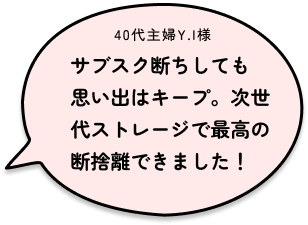
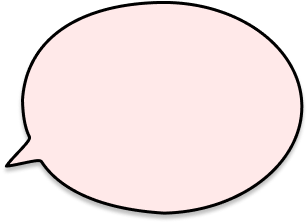
a

diff --git a/src/app/components/pages/home/sectionFeatures.tsx b/src/app/components/pages/home/sectionFeatures.tsx
@@ -1,4 +1,4 @@
-import { ReactNode } from "react";
+import { ReactNode, useEffect } from "react";
 import SectionWrap from "../common/sectionWrap";
 
 
@@ -15,9 +15,29 @@ function Feature({
     title,
     text,
     note
-    }: FeaturePropsType) {
+}: FeaturePropsType) {
+    useEffect(() => {
+        setTimeout(() => {
+            const articleFeatures = document.querySelectorAll('.article-feature');
+            articleFeatures.forEach((articleFeature) => {
+                const textFoldingElement = articleFeature.querySelector('.text--folding') as HTMLElement | null;
+
+                if (textFoldingElement) {
+                    const charTotalValue = getComputedStyle(textFoldingElement).getPropertyValue('--char-total');
+                    const lastCharElement = articleFeature.querySelector('.last-char') as HTMLElement | null;
+
+                    if (lastCharElement) {
+                        lastCharElement.style.setProperty('--char-total', charTotalValue);
+                    }
+                }
+            });
+        });
+
+    }, []);
+
+
     return (
-        <div className="relative border-2 border-[#FDD300] [box-shadow:0px_4px_30px_0px_rgba(0,_0,_0,_0.10)] rounded-[20px] px-4 md:px-5 pt-4 md:pt-5 pb-5 md:pb-7">
+        <div className="article-feature relative border-2 border-[#FDD300] [box-shadow:0px_4px_30px_0px_rgba(0,_0,_0,_0.10)] rounded-[20px] px-4 md:px-5 pt-4 md:pt-5 pb-5 md:pb-7">
             <div className="absolute md:w-[60px] w-[50px] h-[55px] md:h-[66px] bg-[url('/images/feature-label.png')] bg-cover top-0 left-4 flex flex-col items-center justify-center pb-2">
                 <p className="font-medium text-[8px] leading-none">FEATURE</p>
                 <p className="font-black md:text-[38px] text-[20px] leading-none">{id}</p>
@@ -27,7 +47,13 @@ function Feature({
             </figure>
             <h5 className="font-bold md:text-[20px] text-[16px] md:mt-6 mt-4 min-h-[60px] flex items-center">{title}</h5>
             <p className="font-medium md:text-[18px] text-[14px] mt-2">{text}</p>
-            <p className="bg-[#FFF0A6] rounded-[10px] border border-dashed min-h-[78px] border-[#FDD300] font-medium md:text-[18px] text-[14px] mt-3 p-3">{note}</p>
+            <p data-scroll="out" className="bg-[#FFF0A6] rounded-[10px] border border-dashed min-h-[78px] border-[#FDD300] font-medium md:text-[18px] text-[14px] mt-3 p-3">
+                <span className="text--plitting">
+                    <span className="text--folding" data-splitting="">{note}
+                    </span>
+                </span>
+                <span className="last-char char">🎵</span>
+            </p>
         </div>
     );
 }
@@ -42,21 +68,21 @@ export default function SectionFeatures() {
                         image="/images/img-feature-01.png"
                         title="家族で使える！100年買い切り型で人生で必要なストレージを確保！"
                         text="自分、家族の大切な思い出をまるごと全部残せます。"
-                        note="ずっと使ってサブスク不要の人生を歩もう🎵"
+                        note="ずっと使ってサブスク不要の人生を歩もう"
                     />
                     <Feature
                         id="2"
                         image="/images/img-feature-02.png"
                         title="必要な容量だけ買えて、追加もできる！"
                         text="容量が足りなくなったら簡単に追加購入できます。"
-                        note="デジタルライフの生きづらさをスッキリ解決🎵"
+                        note="デジタルライフの生きづらさをスッキリ解決"
                     />
                     <Feature
                         id="3"
                         image="/images/img-feature-03.png"
                         title="大切なデータの保管場所としての機能を完備！"
                         text="大切なデータを削除する必要はありません。"
-                        note="心ゆくまでまるごと保管🎵
+                        note="心ゆくまでまるごと保管
                         "
                     />
                     <Feature
@@ -64,7 +90,7 @@ export default function SectionFeatures() {
                         image="/images/img-feature-04.png"
                         title="世界のどこでも利用可能！"
                         text="アクセス拒否されないから、いつでもどこでもデータ保存。"
-                        note="旅の節目で安心バックアップ🎵
+                        note="旅の節目で安心バックアップ
                         "
                     />
                     <Feature
@@ -72,10 +98,10 @@ export default function SectionFeatures() {
                         image="/images/img-feature-05.png"
                         title="最短即日利用可能！"
                         text="申し込み後は購入〜初期設定完了まで最短即日で対応。"
-                        note="すぐに使って容量問題から解放されてください🎵"
+                        note="すぐに使って容量問題から解放されてください"
                     />
                 </div>
             </div>
         </SectionWrap>
     );
-  }
+}

diff --git a/src/app/components/pages/home/sectionError.tsx b/src/app/components/pages/home/sectionError.tsx
@@ -97,10 +97,12 @@ export default function SectionError() {
                     <div className="relative">
                         <div className="w-full max-w-[630px] mx-auto md:border-[10px] border-[5px] border-[#FDD300] md:rounded-[40px] rounded-[28px] [box-shadow:0px_4px_30px_rgba(0,_0,_0,_0.10)] bg-[url('/images/bg-magic.jpg')] bg-cover bg-center py-7 md:py-9 px-5 md:px-6">
                             <p className="text-center font-black text-[18px] md:text-[28px] tracking-widest [text-shadow:2px_2px_0px_#FDD300] bg-[url('/images/border-magic.png')] bg-no-repeat bg-bottom pb-3">そんな希望を魔法のように叶えるのが</p>
-                            <p className="md:text-[24px] text-[14px] font-bold text-center tracking-widest leading-loose my-3 md:my-4">
-                                生きづらさの種の一つとして <br />
+                            <p data-scroll="out" className="md:text-[24px] text-[14px] font-bold text-center tracking-widest leading-loose my-3 md:my-4">
+                                <span className="text--plitting">
+                                <span className="text--fading" data-splitting="">生きづらさの種の一つとして <br />
                                 存在感を増す「容量」がもたらす <br />
-                                問題をまるごと解消に導く
+                                問題をまるごと解消に導く</span>
+                                </span>
                             </p>
                             <p className="flex justify-center mt-6"><img src="/images/next-generation-storage-text.png" alt="" /></p>
                         </div>

diff --git a/src/app/components/pages/home/sectionVoice.tsx b/src/app/components/pages/home/sectionVoice.tsx
@@ -11,8 +11,17 @@ export default function SectionVoice() {
                 </div>
                 <div className="w-full max-w-[1320px] mx-auto md:mt-[70px] mt-16">
                     <div className="relative w-full max-w-[800px] mx-auto">
-                        <div className="absolute top-[-30px] md:left-[calc(50%-25px)] left-1/2 max-md:w-[45%] animate-[bounce_1s_0.3s_ease_infinite_alternate]">
+                        <div className="absolute top-[-30px] md:left-[calc(50%-25px)] left-1/2 max-md:w-[40vw] animate-[bounce_1s_0.3s_ease_infinite_alternate]">
                             <img src="/images/bubble-voice.png" alt="" />
+                            <div data-scroll="out" className="absolute inset-0 flex flex-col items-center justify-center pl-[9vw] pr-[5vw] pb-[2vw] md:pl-16 md:pr-10 md:pb-6">
+                                <p className="text-center md:text-[14px] text-[2.3vw] font-medium mb-1">40代主婦Y.I様</p>
+                                <p className="md:text-[20px] text-[2.5vw] font-bold">
+                                <span className="text--plitting">
+                                <span className="text--fading" data-splitting="">サブスク断ちしても <br />
+                                                                思い出はキープ。次世代ストレージで最高の断捨離できました！</span>
+                                </span>
+                                </p>
+                            </div>
                         </div>
                         <figure>
                             <img src="/images/user-image.png" alt="" />

diff --git a/src/app/components/pages/home/sectionPopular.tsx b/src/app/components/pages/home/sectionPopular.tsx
@@ -55,7 +55,7 @@ export default function SectionPopular() {
                                 <p className="text-center font-black md:text-[24px] text-[14px]">本当に必要かな？</p>
                             </div>
                             <figure className="absolute right-[calc(50%+85px)] bottom-[88px]">
-                                <img src="/images/deco-cloud-01.png" alt="" />
+                                <img className="animate-[bounce_1s_0.5s_ease_infinite_alternate]" src="/images/deco-cloud-01.png" alt="" />
                             </figure>
                         </div>
                         <div className="w-full md:w-1/2 bg-[url('/images/popular-bg-02.png')] bg-cover bg-center md:pt-16 md:pb-[75px] pt-10 pb-14 relative">
@@ -89,8 +89,8 @@ export default function SectionPopular() {
                                 </div>
                                 <p className="text-center font-black md:text-[24px] text-[14px]">これだけあれば十分だね！</p>
                             </div>
-                            <figure className="absolute left-[calc(50%+75px)] bottom-[90px]">
-                                <img src="/images/deco-cloud-02.png" alt="" />
+                            <figure className="absolute left-[calc(50%+75px)] bottom-[100px]">
+                                <img className="animate-[bounce_1s_0.2s_ease_infinite_alternate]" src="/images/deco-cloud-02.png" alt="" />
                             </figure>
                         </div>
                     </div>

diff --git a/src/app/globals.css b/src/app/globals.css
@@ -46,3 +46,37 @@ body {
     transform: translateY(0);
   }
 }
+
+.text--plitting .char {
+  display: inline-block;
+  -webkit-animation-delay: calc(0.25s + var(--char-index) * 0.1s);
+          animation-delay: calc(0.25s + var(--char-index) * 0.1s);
+  transition: all 0.25s calc(0.25s + var(--char-index) * 0.1s);
+}
+
+[data-scroll='out'] .text--folding .char {
+  transform: rotateX(90deg);
+  transform-origin: bottom;
+}
+.text--fading .char {
+  animation-timing-function: ease-out;
+  transition: all 1s calc(0.25s + var(--char-index) * 0.1s);
+}
+[data-scroll='out'] .text--fading .char {
+  opacity: 0;
+}
+.char.last-char {
+  display: inline-block;
+  -webkit-animation-delay: calc(0.25s + (var(--char-total) + 1)  * 0.1s);
+          animation-delay: calc(0.25s + (var(--char-total) + 1) * 0.1s);
+  transition: all 0.25s calc(0.25s + (var(--char-total) + 1) * 0.1s);
+}
+
+[data-scroll='out'] .last-char {
+  transform: rotateX(90deg);
+  transform-origin: bottom;
+}
+
+.splitting .word {
+  display: inline !important;
+}

diff --git a/src/app/page.tsx b/src/app/page.tsx
@@ -1,3 +1,8 @@
+"use client"
+import { ReactNode, useEffect, useRef } from "react";
+import "splitting/dist/splitting.css";
+import "splitting/dist/splitting-cells.css";
+import ScrollOut from "scroll-out";
 import Anchors from "./components/pages/home/anchors";
 import FAQ from "./components/pages/home/faq/faq";
 import Fixed from "./components/pages/home/fixed";
@@ -10,6 +15,16 @@ import SectionSupport from "./components/pages/home/sectionSupport";
 import SectionVoice from "./components/pages/home/sectionVoice";
 
 export default function Home() {
+    useEffect(()=>{
+        setTimeout(() => {
+        if ( window && document ) {
+                const Splitting = require('Splitting');
+                Splitting();
+            }
+        });
+        ScrollOut({
+          });
+    },[])
   return (
     <main>
       <FV />

diff --git a/src/app/typings/index.d.ts b/src/app/typings/index.d.ts
@@ -1,0 +1,2 @@
+declare module 'scroll-out';
+declare module 'splitting';
